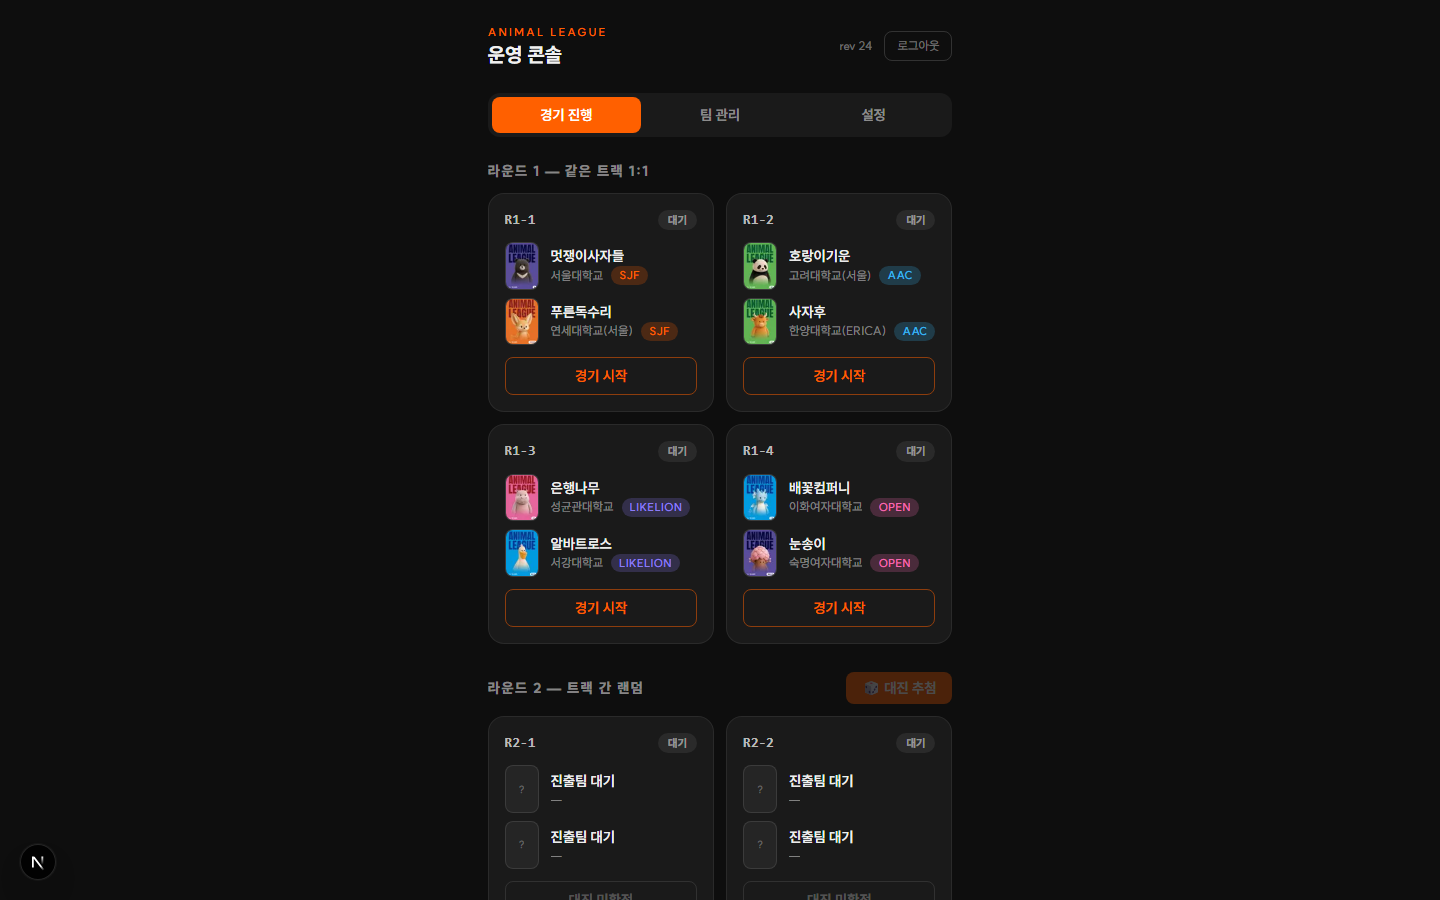
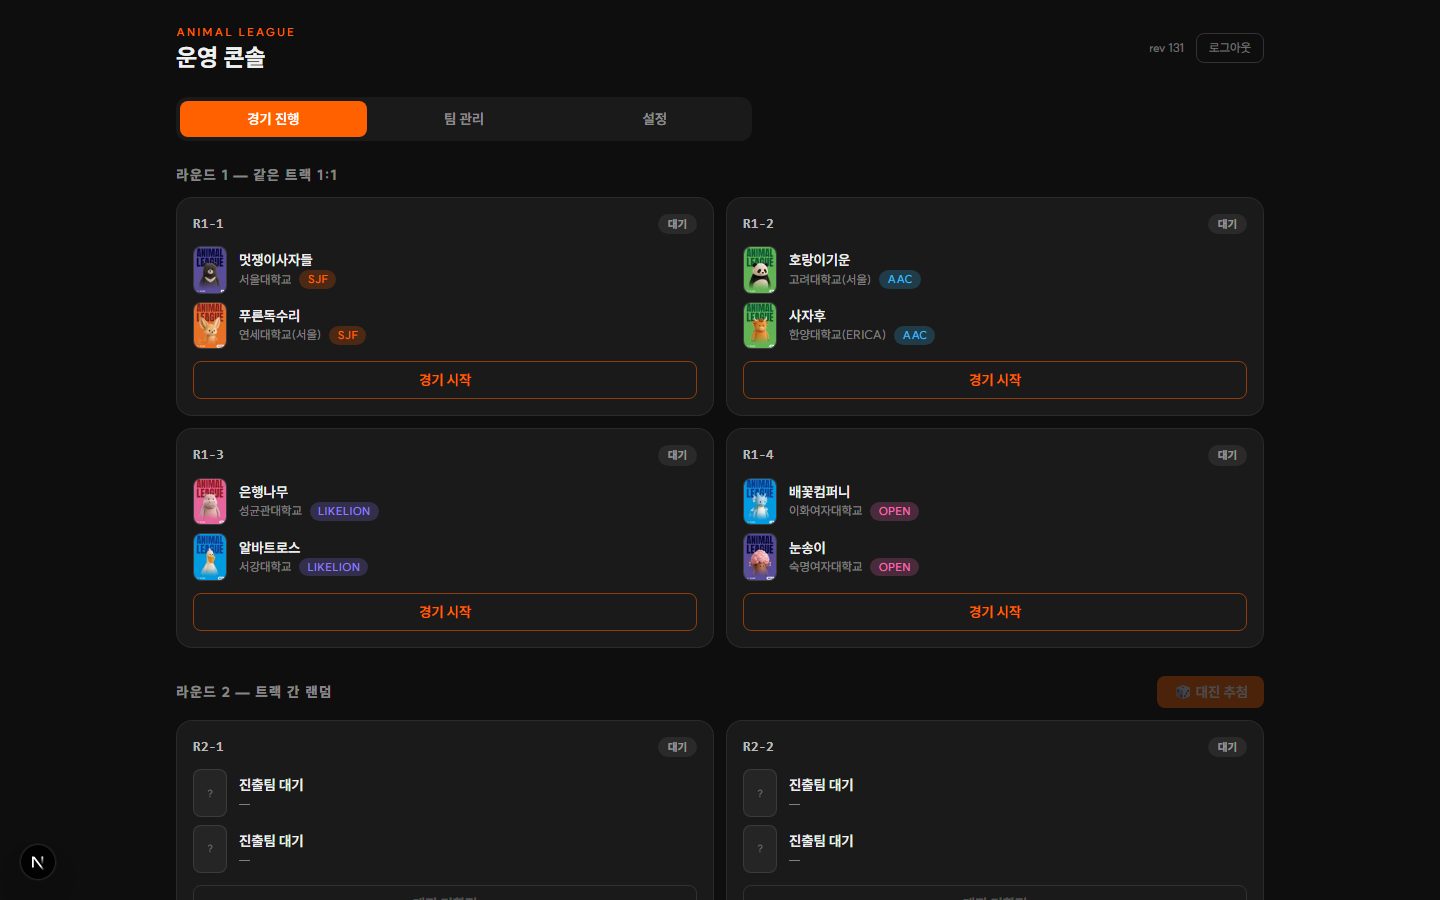
fix(admin): stretch console to full width on desktop viewports
노트북(1440px)에서 운영 콘솔이 436px 띠로 보이던 문제. 원인이 두 겹이었습니다:

1. 진짜 원인 — layout.tsx 의 body 가 flex-col 이고 main 이 mx-auto 를 쓰면
   플렉스 컨테이너의 inline 축 auto 마진은 아이템을 '내용 크기로 수축'시킨다.
   max-w-3xl(768px)이 선언돼 있어도 실제 폭은 436px 였음 (computed 로 확인).
   w-full 을 더해 stretch 시키는 것이 수정의 핵심 — judge 화면이 처음부터
   멀쩡했던 이유도 w-full 이 있었기 때문
2. 그 위에 — 폭 상한 자체도 노트북 기준으론 좁아, xl 에서 6xl(1152px)로 확장

같이 조정한 것: 탭 바는 xl 에서 max-w-xl 로 캡 (1152px 로 늘어난 탭 버튼은
시선 이동만 커짐), 설정 폼 컬럼은 2xl 캡 (짧은 입력창이 든 카드가 전폭이면
비어 보임), 캐릭터 픽커는 xl 에서 10열·4xl, 팀 관리 학교 입력 xl 에서 w-64.

경기 카드 그리드는 2열을 유지 — 집계 패널(명의별 제출 목록)이 카드 안에
들어가므로 3열로 나누면 오히려 좁아진다.

검증 — Playwright computed style 로 main 실폭 436→1152px 확인,
상태별 9장 재캡처(1440×900), before 1장 첨부. tsc · eslint · 테스트 31건 통과.

diff --git a/app/admin/page.tsx b/app/admin/page.tsx
@@ -530,11 +530,11 @@ function CharacterPicker({
   return (
     <div className="fixed inset-0 z-50 grid place-items-center bg-black/70 p-4" onClick={onClose}>
       <div
-        className="max-h-[80dvh] w-full max-w-2xl overflow-y-auto rounded-2xl border border-white/10 bg-[var(--surface)] p-4"
+        className="max-h-[80dvh] w-full max-w-2xl overflow-y-auto rounded-2xl border border-white/10 bg-[var(--surface)] p-4 xl:max-w-4xl"
         onClick={(e) => e.stopPropagation()}
       >
         <h3 className="mb-3 text-sm font-bold text-white/70">캐릭터 선택 — 학교에 맞는 캐릭터를 고르세요</h3>
-        <div className="grid grid-cols-5 gap-2 sm:grid-cols-8">
+        <div className="grid grid-cols-5 gap-2 sm:grid-cols-8 xl:grid-cols-10">
           {keys.map((key) => {
             const owner = usedBy.get(key);
             return (
@@ -625,7 +625,7 @@ function TeamsTab({
                   onChange={(e) => edit(i, { school: e.target.value })}
                   placeholder="학교"
                   maxLength={40}
-                  className="w-44 rounded-lg border border-white/15 bg-black/30 px-3 py-2 pr-8 text-sm outline-none focus:border-[var(--orange)]"
+                  className="w-44 rounded-lg border border-white/15 bg-black/30 px-3 py-2 pr-8 text-sm outline-none focus:border-[var(--orange)] xl:w-64"
                 />
                 {logo && (
                   <span className="absolute right-2 top-1/2 h-5 w-5 -translate-y-1/2">
@@ -705,7 +705,7 @@ function SettingsTab({
   const btn = 'rounded-lg bg-[var(--orange)] px-4 py-2 text-sm font-bold text-white disabled:opacity-25';
 
   return (
-    <div className="space-y-4">
+    <div className="space-y-4 xl:max-w-2xl">
       <div className={card}>
         <h2 className="mb-1 font-bold">심사위원 명단</h2>
         <p className="mb-3 text-xs text-white/45">
@@ -921,11 +921,11 @@ export default function AdminPage() {
   }
 
   return (
-    <main className="mx-auto max-w-3xl px-4 pb-24 pt-6">
+    <main className="mx-auto w-full max-w-3xl px-4 pb-24 pt-6 xl:max-w-6xl xl:px-8">
       <header className="mb-6 flex items-center justify-between">
         <div>
           <p className="text-[11px] font-bold tracking-[0.2em] text-[var(--orange)]">ANIMAL LEAGUE</p>
-          <h1 className="text-xl font-extrabold">운영 콘솔</h1>
+          <h1 className="text-xl font-extrabold xl:text-2xl">운영 콘솔</h1>
         </div>
         <div className="flex items-center gap-3 text-xs text-white/40">
           <span>rev {state.rev}</span>
@@ -953,7 +953,7 @@ export default function AdminPage() {
         </div>
       )}
 
-      <nav className="mb-6 flex gap-1 rounded-xl bg-white/5 p-1">
+      <nav className="mb-6 flex gap-1 rounded-xl bg-white/5 p-1 xl:max-w-xl">
         {TABS.map((t) => (
           <button
             key={t.key}
